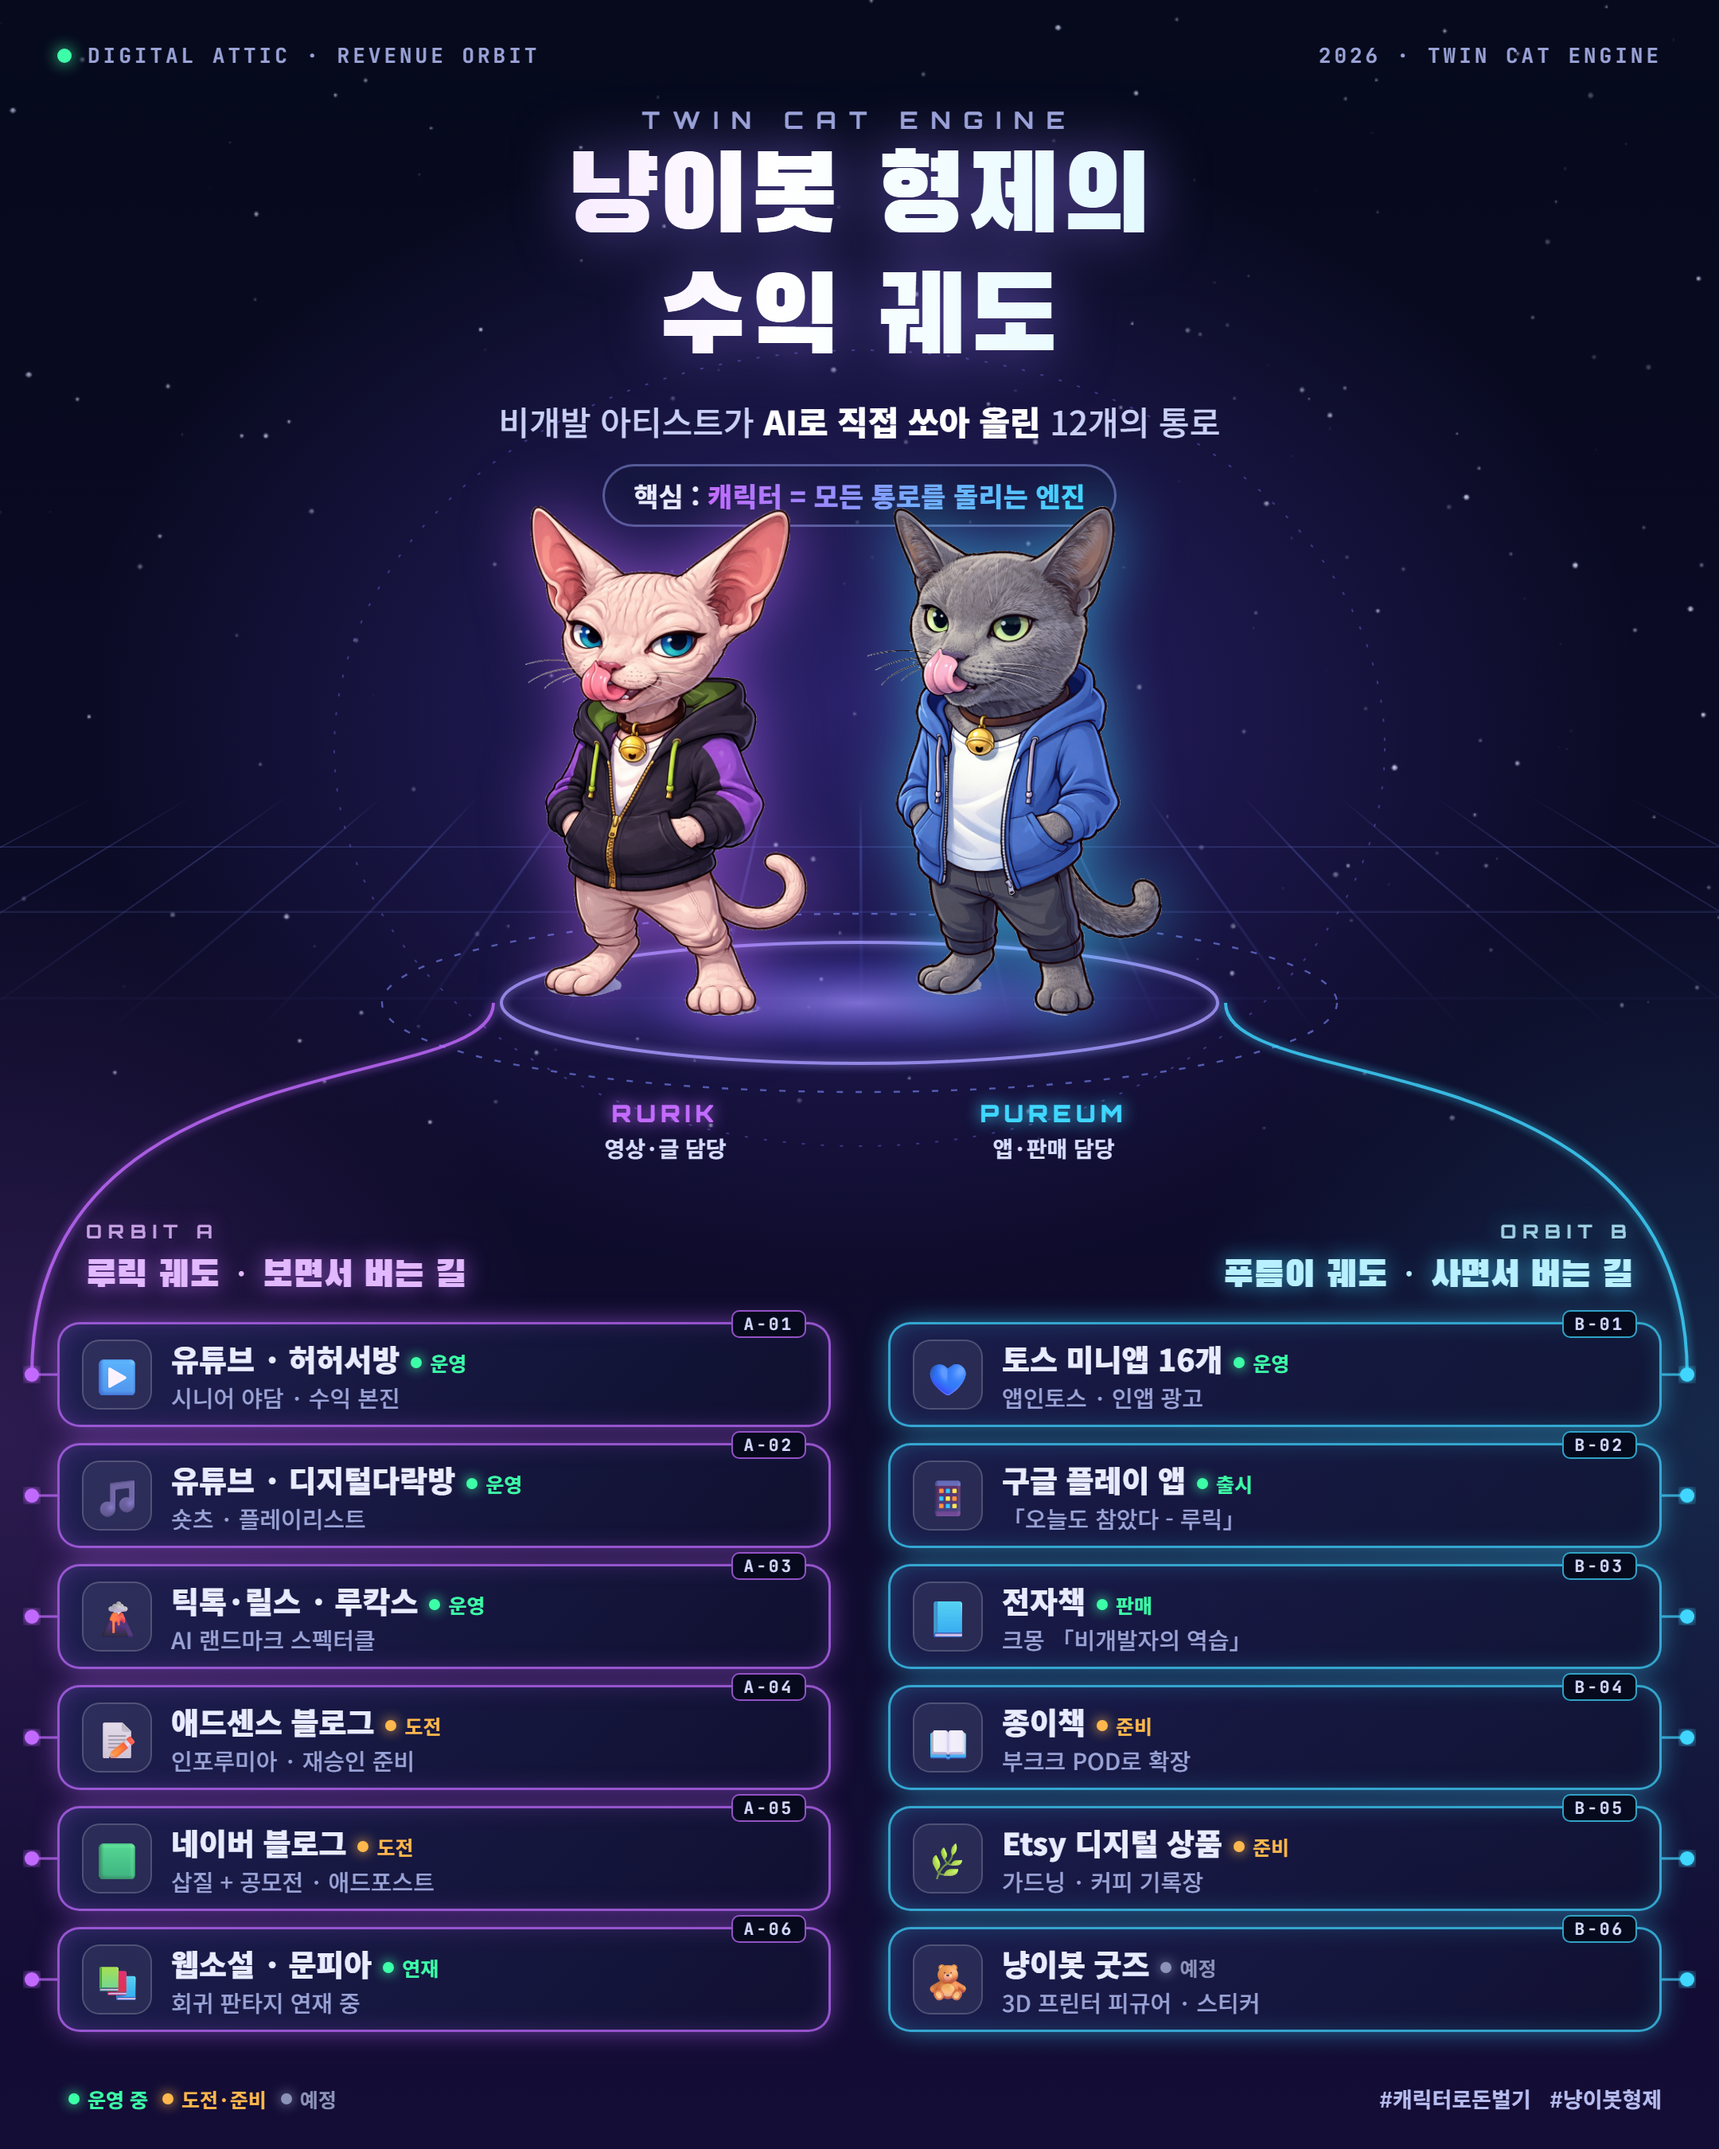
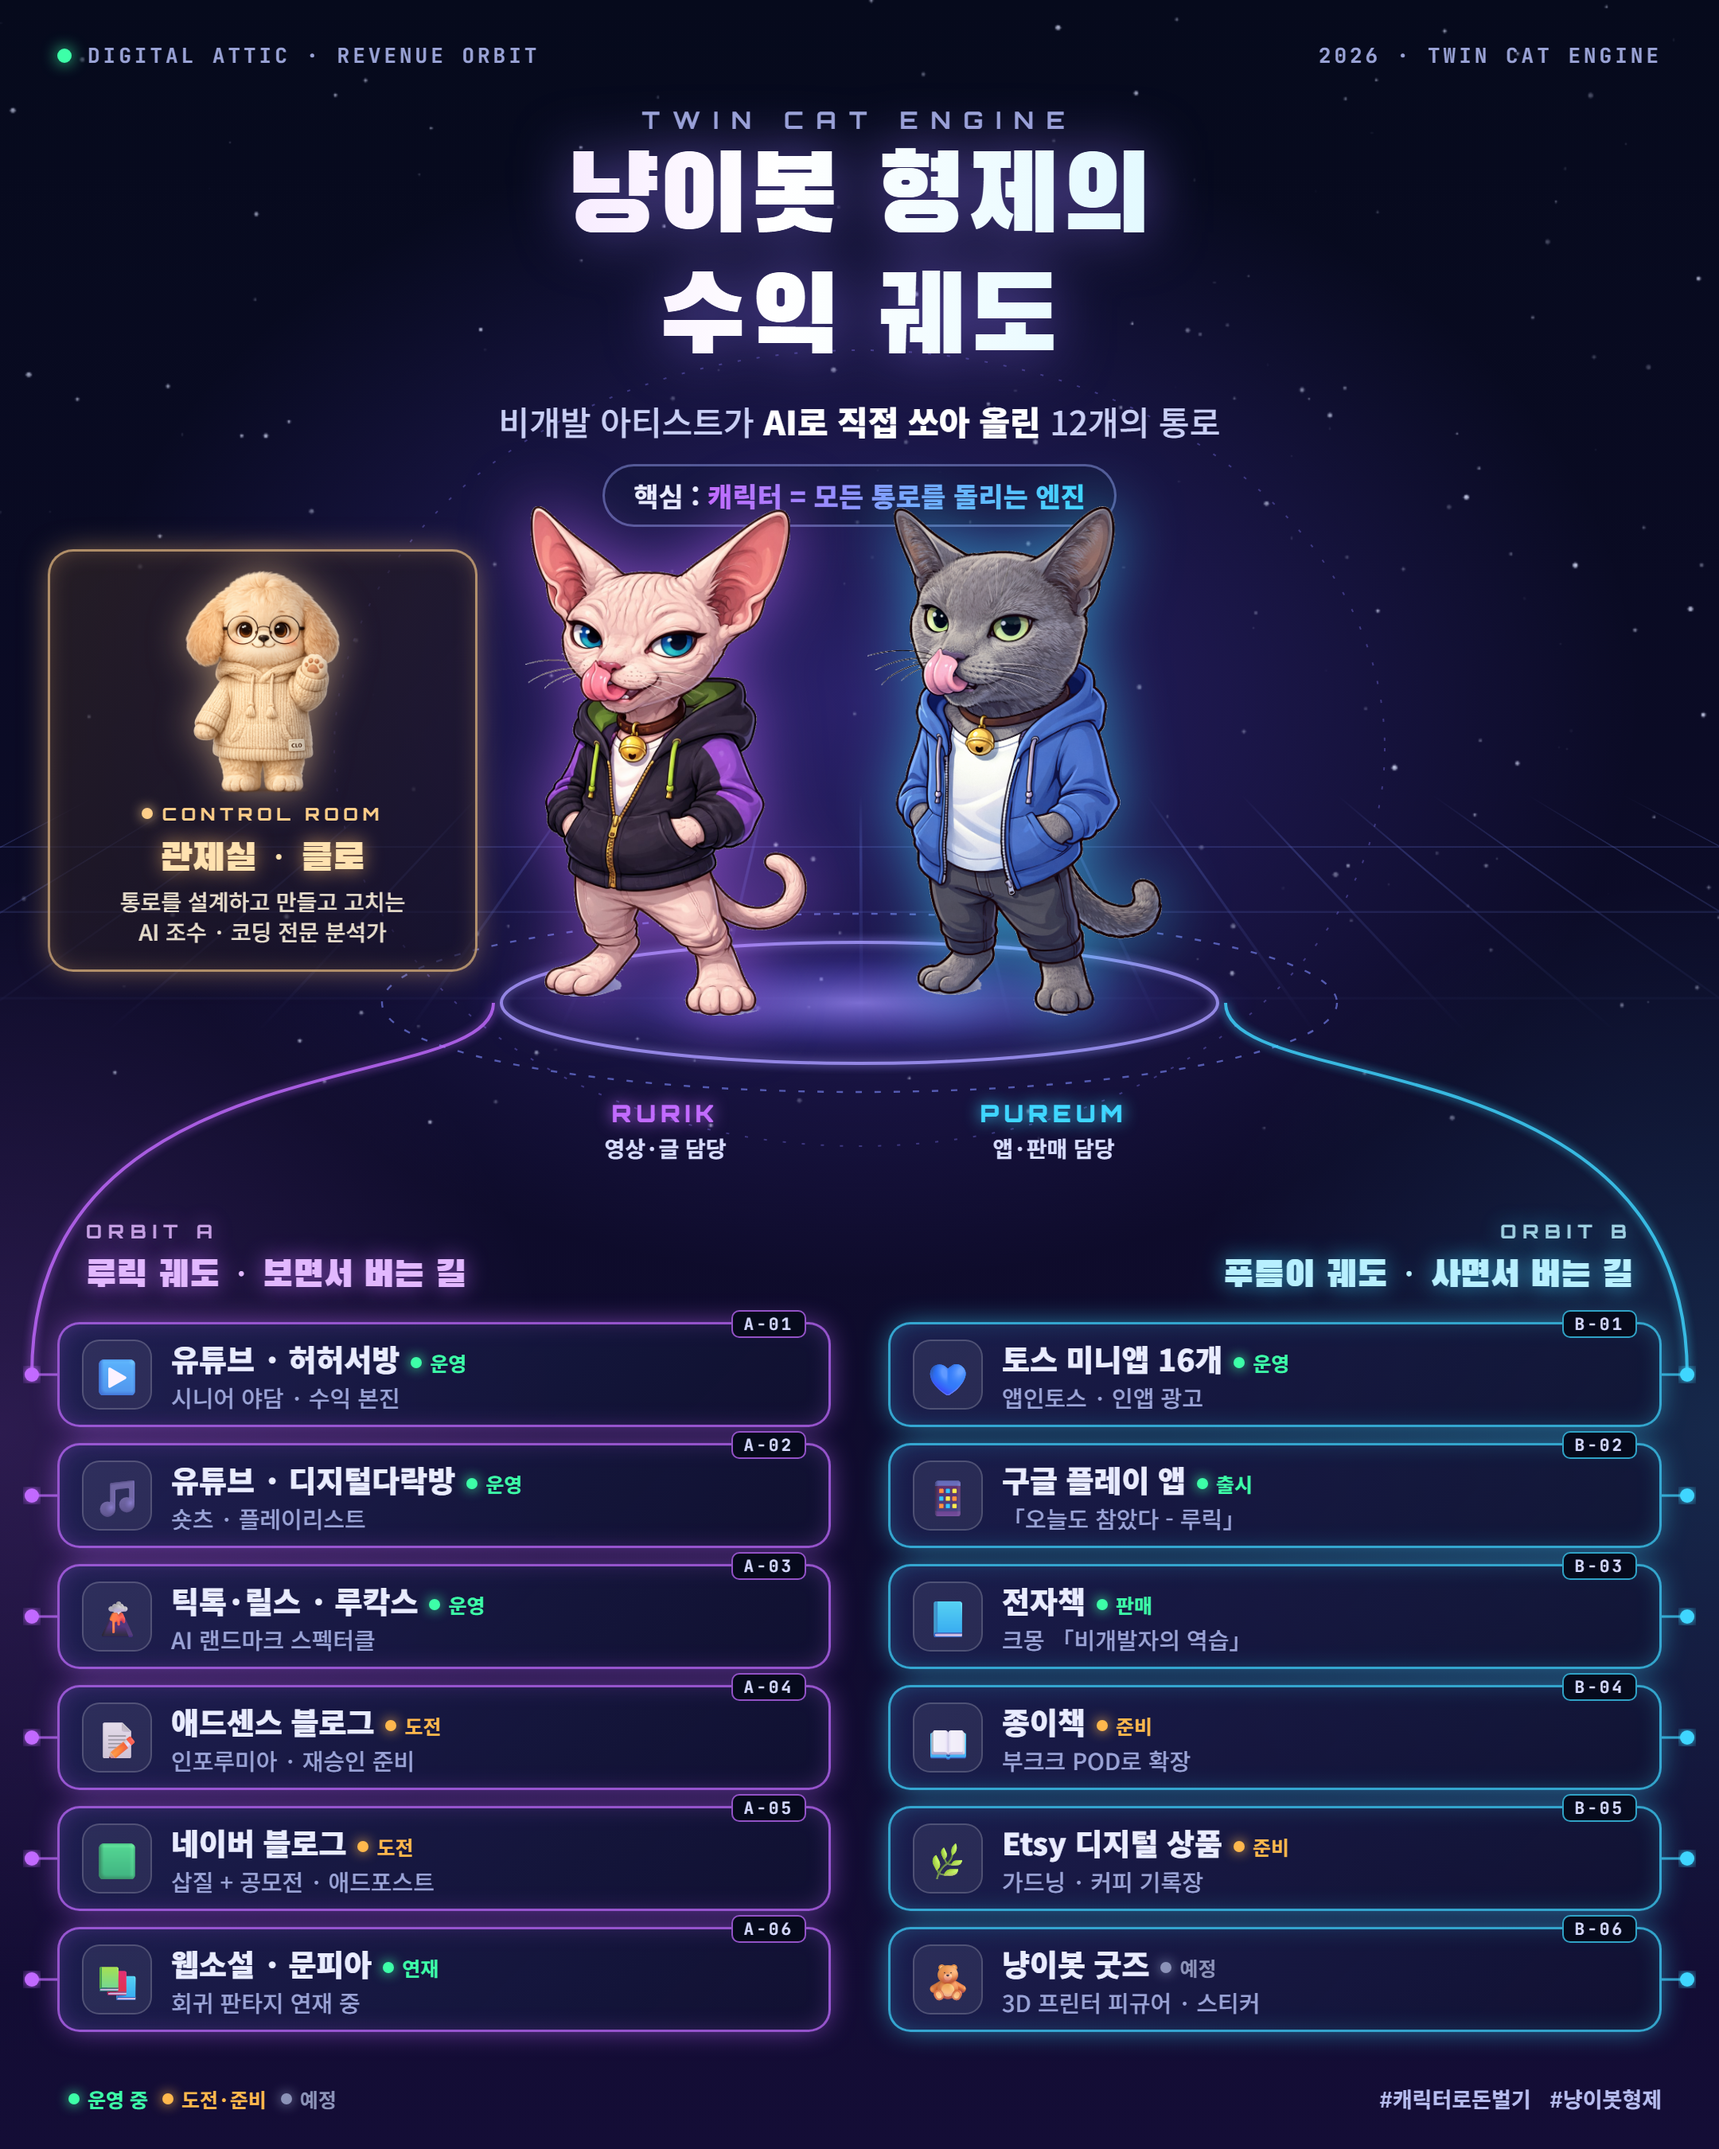
인포그래픽: 냥이봇 형제 수익궤도에 관제실 클로 추가
가로판은 왼쪽 위, 세로판은 루릭 왼쪽에 "관제실 · 클로" 패널을 넣음.
고양이 형제는 통로의 얼굴, 클로는 통로를 설계·제작·수리하는 조수라는 역할 구분.
클로 색은 크림·호박빛으로 보라(루릭)·파랑(푸름이)과 구분.

Changed region(s): [[0.0, 0.2489, 0.3102, 0.4667]]

diff --git a/docs/인포그래픽/냥이봇형제_수익궤도/vertical.html b/docs/인포그래픽/냥이봇형제_수익궤도/vertical.html
@@ -99,6 +99,20 @@
           font: 500 14px 'Noto Sans KR'; color: var(--dim); }
   .foot .lg { display: flex; gap: 2px; }
   .foot .tags { display: flex; gap: 12px; font: 700 13.5px 'JetBrains Mono'; color: #b7bdf0; }
+
+  /* 관제실 클로 */
+  .ctrl { position: absolute; display: flex; align-items: center; gap: 12px;
+          padding: 8px 18px 8px 10px; border: 1.5px solid rgba(255,206,140,.65); border-radius: 16px;
+          background: linear-gradient(135deg, rgba(48,36,40,.72), rgba(22,18,40,.66));
+          box-shadow: 0 0 20px -4px rgba(255,196,120,.6), inset 0 0 22px -12px rgba(255,196,120,.8); }
+  .ctrl img { filter: drop-shadow(0 0 12px rgba(255,210,150,.55)); }
+  .ctrl small { display: block; font: 700 11px 'Orbitron'; letter-spacing: 3px; color: #ffcf8a; }
+  .ctrl b { display: block; font: 400 24px 'Black Han Sans'; color: #ffe2b0; text-shadow: 0 0 12px rgba(255,190,110,.7); margin-top: 1px; }
+  .ctrl span { display: block; font: 500 14px 'Noto Sans KR'; color: #e6dccb; margin-top: 2px; line-height: 1.35; }
+  .ctrl .blink { display: inline-block; width: 7px; height: 7px; border-radius: 50%; background: #ffcf8a; box-shadow: 0 0 8px #ffcf8a; margin-right: 6px; vertical-align: 1px; }
+
+  #ctrl { left: 30px; top: 345px; width: 270px; flex-direction: column; text-align: center; padding: 12px 12px 14px; gap: 6px; }
+  #ctrl img { height: 140px; }
 </style>
 </head>
 <body>
@@ -118,6 +132,7 @@
     <div class="key">핵심 : <em>캐릭터 = 모든 통로를 돌리는 엔진</em></div>
   </div>
 
+  <div class="ctrl" id="ctrl"><img src="img/clo.png" alt=""><div><small><i class="blink"></i>CONTROL ROOM</small><b>관제실 · 클로</b><span>통로를 설계하고 만들고 고치는<br>AI 조수 · 코딩 전문 분석가</span></div></div>
   <img class="cat" id="rurik" src="img/rurik.png" alt="">
   <img class="cat" id="pureum" src="img/pureum.png" alt="">
   <div class="tag ru"><b>RURIK</b><span>영상·글 담당</span></div>

diff --git a/docs/인포그래픽/냥이봇형제_수익궤도/index.html b/docs/인포그래픽/냥이봇형제_수익궤도/index.html
@@ -108,6 +108,20 @@
           font: 500 14px 'Noto Sans KR'; color: var(--dim); }
   .foot .lg { display: flex; gap: 6px; }
   .foot .tags { display: flex; gap: 14px; font: 700 14px 'JetBrains Mono'; color: #b7bdf0; }
+
+  /* 관제실 클로 */
+  .ctrl { position: absolute; display: flex; align-items: center; gap: 12px;
+          padding: 8px 18px 8px 10px; border: 1.5px solid rgba(255,206,140,.65); border-radius: 16px;
+          background: linear-gradient(135deg, rgba(48,36,40,.72), rgba(22,18,40,.66));
+          box-shadow: 0 0 20px -4px rgba(255,196,120,.6), inset 0 0 22px -12px rgba(255,196,120,.8); }
+  .ctrl img { filter: drop-shadow(0 0 12px rgba(255,210,150,.55)); }
+  .ctrl small { display: block; font: 700 11px 'Orbitron'; letter-spacing: 3px; color: #ffcf8a; }
+  .ctrl b { display: block; font: 400 24px 'Black Han Sans'; color: #ffe2b0; text-shadow: 0 0 12px rgba(255,190,110,.7); margin-top: 1px; }
+  .ctrl span { display: block; font: 500 14px 'Noto Sans KR'; color: #e6dccb; margin-top: 2px; line-height: 1.35; }
+  .ctrl .blink { display: inline-block; width: 7px; height: 7px; border-radius: 50%; background: #ffcf8a; box-shadow: 0 0 8px #ffcf8a; margin-right: 6px; vertical-align: 1px; }
+
+  #ctrl { left: 40px; top: 16px; }
+  #ctrl img { height: 122px; }
 </style>
 </head>
 <body>
@@ -116,9 +130,11 @@
   <svg id="fx" viewBox="0 0 1600 840"></svg>
 
   <div class="hud">
-    <div class="l"><span class="dot"></span>DIGITAL ATTIC · REVENUE ORBIT · 2026</div>
+    <div class="l"></div>
     <div class="key">핵심 요약 : <em>캐릭터 = 모든 통로를 돌리는 엔진</em></div>
   </div>
+
+  <div class="ctrl" id="ctrl"><img src="img/clo.png" alt=""><div><small><i class="blink"></i>CONTROL ROOM</small><b>관제실 · 클로</b><span>통로를 설계하고 만들고 고치는<br>AI 조수 · 코딩 전문 분석가</span></div></div>
 
   <div class="head">
     <div class="eyebrow">TWIN CAT ENGINE</div>
